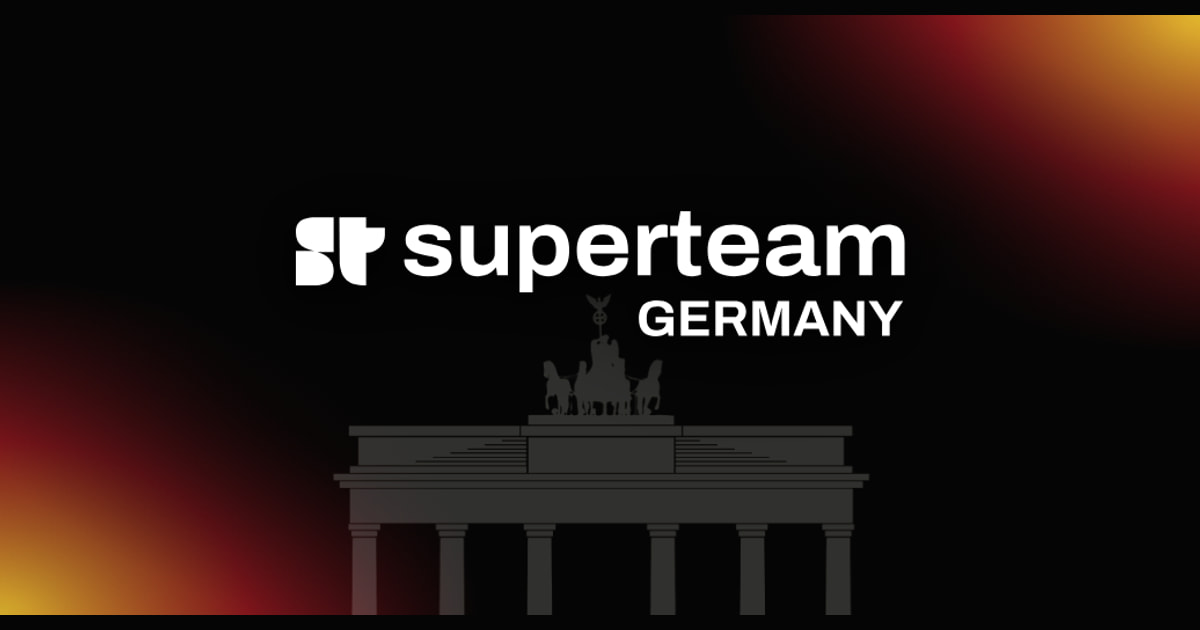
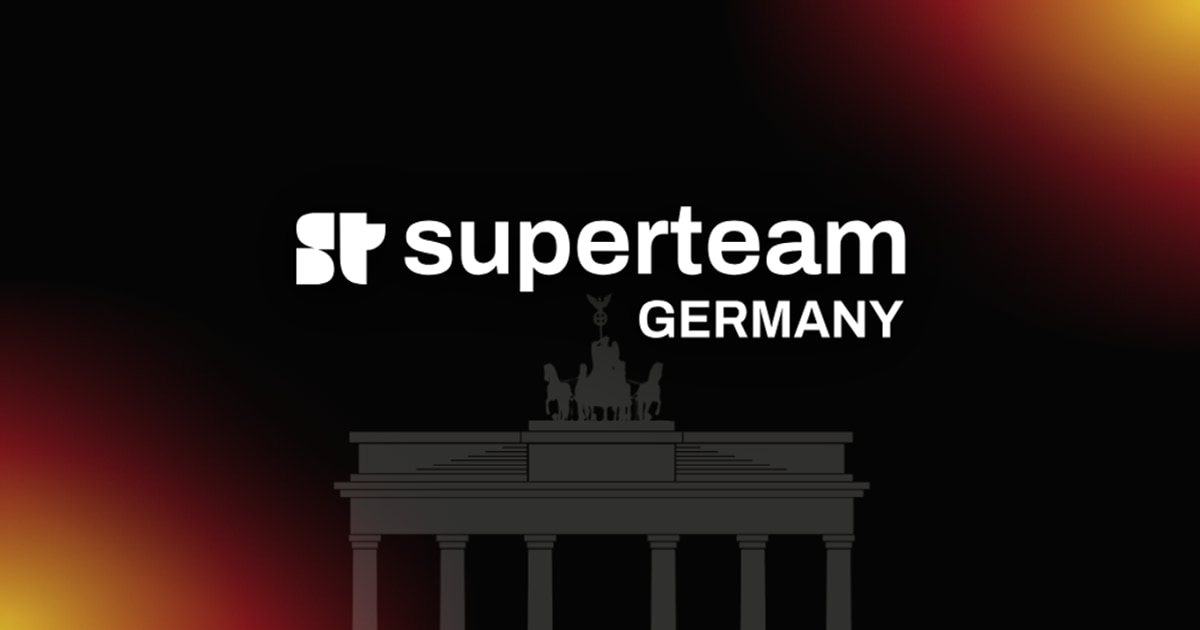
Make homepage social preview edge-to-edge and bust cache

diff --git a/public/site/home.html b/public/site/home.html
@@ -17,7 +17,9 @@
     <meta property="og:title" content="Superteam Germany | Solana Builders, Founders &amp; Startups" />
     <meta property="og:description" content="Superteam Germany helps Solana builders and founders launch, grow, raise capital, hire talent and connect through events across Germany." />
     <meta property="og:url" content="https://de.superteam.fun/" />
-    <meta property="og:image" content="https://de.superteam.fun/images/home-social-card-v1.jpg" />
+    <meta property="og:image" content="https://de.superteam.fun/images/home-social-card-v1.jpg?v=3" />
+    <meta property="og:image:secure_url" content="https://de.superteam.fun/images/home-social-card-v1.jpg?v=3" />
+    <meta property="og:image:type" content="image/jpeg" />
     <meta property="og:image:width" content="1200" />
     <meta property="og:image:height" content="630" />
     <meta property="og:image:alt" content="Superteam Germany logo above a Brandenburg Gate silhouette" />
@@ -25,7 +27,7 @@
     <meta name="twitter:site" content="@SuperteamDE" />
     <meta name="twitter:title" content="Superteam Germany | Solana Builders, Founders &amp; Startups" />
     <meta name="twitter:description" content="Launch, grow and connect with Germany’s Solana builder and founder community." />
-    <meta name="twitter:image" content="https://de.superteam.fun/images/home-social-card-v1.jpg" />
+    <meta name="twitter:image" content="https://de.superteam.fun/images/home-social-card-v1.jpg?v=3" />
     <meta name="twitter:image:alt" content="Superteam Germany logo above a Brandenburg Gate silhouette" />
     <script type="application/ld+json">{"@context":"https://schema.org","@graph":[{"@type":"Organization","@id":"https://de.superteam.fun/#organization","name":"Superteam Germany","url":"https://de.superteam.fun/","logo":{"@type":"ImageObject","url":"https://de.superteam.fun/st-flag-logo.png"},"sameAs":["https://x.com/SuperteamDE","https://t.me/superteamgermany","https://www.youtube.com/@SuperteamDE"]},{"@type":"WebSite","@id":"https://de.superteam.fun/#website","url":"https://de.superteam.fun/","name":"Superteam Germany","description":"Germany’s community for Solana builders, founders and startups.","publisher":{"@id":"https://de.superteam.fun/#organization"},"inLanguage":"en"}]}</script>
     <script type="importmap">

diff --git a/src/app/layout.tsx b/src/app/layout.tsx
@@ -6,7 +6,8 @@ import Script from "next/script";
 import { SiteChrome } from "@/components/site-chrome";
 
 const SITE_URL = "https://de.superteam.fun";
-const HOME_SOCIAL_IMAGE = "/images/home-social-card-v1.jpg";
+const HOME_SOCIAL_IMAGE =
+  "https://de.superteam.fun/images/home-social-card-v1.jpg?v=3";
 const siteDescription =
   "Superteam Germany helps Solana builders and founders launch, grow, raise capital, hire talent and connect through events across Germany.";
 
@@ -93,9 +94,11 @@ export const metadata: Metadata = {
     images: [
       {
         url: HOME_SOCIAL_IMAGE,
+        secureUrl: HOME_SOCIAL_IMAGE,
         width: 1200,
         height: 630,
         alt: "Superteam Germany logo above a Brandenburg Gate silhouette",
+        type: "image/jpeg",
       },
     ],
     locale: "en_DE",
@@ -105,7 +108,12 @@ export const metadata: Metadata = {
     card: "summary_large_image",
     title: "Superteam Germany | Solana Builders, Founders & Startups",
     description: siteDescription,
-    images: [HOME_SOCIAL_IMAGE],
+    images: [
+      {
+        url: HOME_SOCIAL_IMAGE,
+        alt: "Superteam Germany logo above a Brandenburg Gate silhouette",
+      },
+    ],
     site: "@SuperteamDE",
     creator: "@SuperteamDE",
   },
